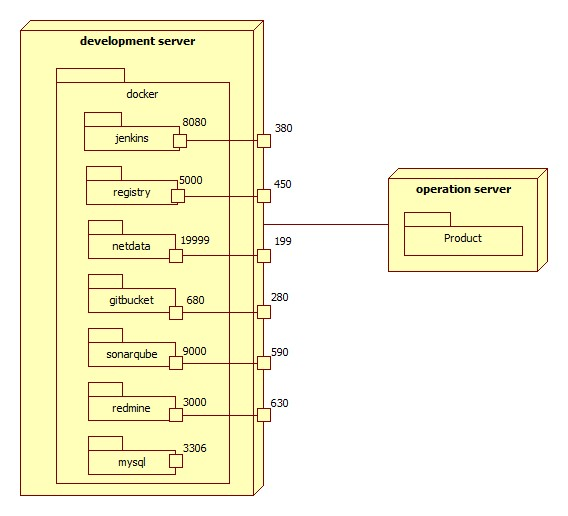
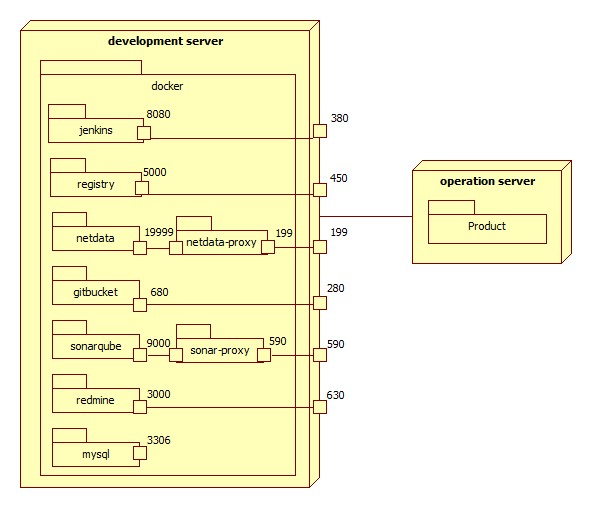
resovled #3

Changed region(s): [[0.0299, 0.0295, 0.9877, 0.9744]]

diff --git a/doc/case-tool/nginx/nginx.md b/doc/case-tool/nginx/nginx.md
@@ -1,0 +1,74 @@
+# NGINX
+
+## NGINX ?
+
+[NGINX Wiki](https://ko.wikipedia.org/wiki/Nginx)
+>>>
+Nginx(엔진 x라 읽는다)는 웹 서버 소프트웨어로, 가벼움과 높은 성능을 목표로 한다. 웹 서버, 리버스 프록시 및 메일 프록시 기능을 가진다.
+...
+Nginx는 요청에 응답하기 위해 비동기 이벤트 기반 구조를 가진다. 이것은 아파치 HTTP 서버의 스레드/프로세스 기반 구조를 가지는 것과는 대조적이다. 이러한 구조는 서버에 많은 부하가 생길 경우의 성능을 예측하기 쉽게 해준다.
+>>>
+
+## NGINX로HTTPS PROXY 서버 만들기
+브라우저의 https redirect 기능 때문에 http로 접속을 못하는 경우가 생겼다.
+그래서 간단하게 HTTPS PROXY 서버를 만들어 해결하려한다.
+
+현재 http로 동작하는 프로세스는 docker container위에 동작하고 있다.(netdata)
+
+### NGINX Config 파일 설정
+
+아래와 같이 파일을 설정해 준다.  
+
+```bash
+$ vi <PATH>/nginx.conf
+
+server { 
+	  /* HTTPS PORT 입력 */
+    listen       199; 
+
+    /* 도메인 입력 */
+    server_name  <DOMAIN>; 
+ 
+    ssl on; 
+	  /* SSL 파일 경로 입력(저자는 letsencrypt를 이용하여 ssl 등록) */
+    ssl_certificate /etc/nginx/certs/fullchain1.pem; 
+    ssl_certificate_key /etc/nginx/certs/privkey1.pem; 
+ 
+    ssl_ciphers 'ECDHE-RSA-AES256-GCM-SHA384:ECDHE-RSA-AES128-GCM-SHA256:ECDHE-RSA-AES256-SHA384:ECDHE-RSA-AES128-SHA256:ECDHE-RSA-AES256-SHA:ECDHE-RSA-AES128-SHA:ECDHE-RSA-DES-CBC3-SHA:AES256-GCM-SHA384:AES128-GCM-SHA256:AES256-SHA
+256:AES128-SHA256:AES256-SHA:AES128-SHA:DES-CBC3-SHA:!aNULL:!eNULL:!EXPORT:!DES:!MD5:!PSK:!RC4'; 
+    ssl_protocols  TLSv1 TLSv1.1 TLSv1.2; 
+    ssl_prefer_server_ciphers on; 
+    ssl_session_cache  builtin:1000  shared:SSL:10m; 
+    ssl_session_timeout  5m; 
+ 
+    location / { 
+				/* HTTP로 동작하는 서비스 URL 입력(현재 NGINX와 netdata는 같은 network상에 존재) */
+        proxy_pass http://netdata:19999; 
+    } 
+}
+```
+
+### NGINX docker-compose 파일 설정
+
+```
+version: '3'
+services:
+ netdata-proxy:
+  restart: always
+  image: nginx
+  container_name: netdata-proxy
+  ports:
+   - "199:199"
+  networks:
+   - net
+  volumes:
+   /* nginx config 파일 경로 설정 */
+   - <PATH>/nginx.conf:/etc/nginx/conf.d/default.conf
+   /* certs 파일 경로 설정 */
+   - /sw/common/certs:/etc/nginx/certs
+/* netdata와 같은 network 설정 */
+networks:
+ net:
+  external:
+      name: epicurus-dev-tool-net
+```

diff --git a/doc/case-tool/jenkins/jenkins_v1.md b/doc/case-tool/jenkins/jenkins_v1.md
@@ -210,9 +210,9 @@ Sample Project는 Gradle를 이용한 Java Project 이다.
         # 종료된 이미지 삭제
         docker images | awk '{print $3}' | grep -v 'IMAGE' | xargs --no-run-if-empty docker rmi -f
         # registry에 접속 로그인
-        docker login -u epicurus -p 1Eepicurus dev.sw-warehouse.xyz:450
+        docker login -u epicurus -p 1Eepicurus <REGISTRY DOMAIN>:450
         # 이미지 pull 후 run
-        docker run -d --name daemon-project-sample dev.sw-warehouse.xyz:450/daemon-project-sample
+        docker run -d --name daemon-project-sample <REGISTRY DOMAIN>:450/daemon-project-sample
         ```
 
   [05c45105]: https://github.com/Yongdae-Kim/HowToUseJenkins "jenkins overview"

diff --git a/doc/case-tool/registry/registry.md b/doc/case-tool/registry/registry.md
@@ -31,7 +31,7 @@ Docker image을  push로 저장하고 pull로 가져올 수 있는 도구이다.
       s.serve_forever()"
       # 아래의 내용 복사 후 root 계정에서 백그라운드에서 실행 후 엔터
       .......
-    $ mkdir /sw/common/certs/dev.sw-warehouse.xyz
+    $ mkdir /sw/common/certs/
     $ sudo cp /etc/letsencrypt/archive/<DOMAIN>/fullchain1.pem /sw/common/certs/https//cert.pem
     $ sudo cp /etc/letsencrypt/archive/<DOMAIN>/privkey1.pem /sw/common/certs/https/privkey.pem
     ```
@@ -66,7 +66,7 @@ $ docker-compose up -d
 ```
 
 ### - 테스트
-  - dev.sw-warehouse.xyz 장비
+  - 개발 장비
   ```
   $ docker login -u <USER> -p <PASSWORD> <DOMAIN>:450
   $ docker pull centos
